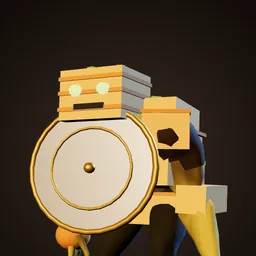
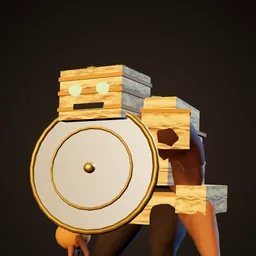
KA A2: painted filo and brass cells in the enemy kit atlas
kit.webp (local FLUX.2 klein): filo side, filo top for up-facing
triangles, brass. KIT_TONE measured from the file (unit test re-measures
it); kitAtlas draws the image into its canvas once loaded. 0 draw calls,
calls unchanged. Kodex E23 and X25 rendered again. enemy-sheet now awaits
kitReady() in sheet mode too (it rendered before the image arrived).

diff --git a/src/render/kit-atlas.ts b/src/render/kit-atlas.ts
@@ -9,13 +9,17 @@ import { BufferAttribute, CanvasTexture, Color, SRGBColorSpace, type BufferGeome
 export const KIT_ATLAS = { cols: 4, rows: 2, cell: 256, pad: 4 } as const;
 
 /**
- * Mean sRGB tone per cell (r, g, b); cell 0 is plain white. Until a painted cell is measured (steps A2, A3) it
- * is a flat 0xb8, and the canvas paints exactly that tone, so colours equal the flat kit colours.
+ * Mean sRGB tone per cell (r, g, b) inside its padding, measured from `kit.webp` (a test measures it again);
+ * cell 0 is plain white, unpainted cells a flat 0xb8. Before the image is in, the canvas paints each cell this
+ * flat tone, so colours equal the plain kit colours from the first frame.
  */
 export const KIT_TONE: ReadonlyArray<readonly [number, number, number]> = [
-  [255, 255, 255], [0xb8, 0xb8, 0xb8], [0xb8, 0xb8, 0xb8], [0xb8, 0xb8, 0xb8],
+  [255, 255, 255], [192, 180, 166], [192, 179, 164], [187, 182, 168],
   [0xb8, 0xb8, 0xb8], [0xb8, 0xb8, 0xb8], [0xb8, 0xb8, 0xb8], [0xb8, 0xb8, 0xb8],
 ];
+
+/** The painted cells (A2: filo side, filo top, brass; local FLUX.2 klein, `docs/local-ai-assets.md` round 5). */
+export const KIT_ART_URL = new URL('../../assets/textures/enemies/kit.webp', import.meta.url).href;
 
 /** A kit material's cell, and optionally a second cell for its up-facing triangles (the camera looks down). */
 export interface KitCell { cell: number; top?: number }
@@ -103,9 +107,16 @@ export function kitAtlas(smallTextures: boolean): Texture {
     g.fillStyle = `rgb(${r},${gr},${b})`;
     g.fillRect((i % cols) * cell * s, Math.floor(i / cols) * cell * s, cell * s, cell * s);
   });
-  atlas = new CanvasTexture(c);
-  atlas.colorSpace = SRGBColorSpace;
-  atlas.anisotropy = 1;
-  ready = Promise.resolve();
-  return atlas;
+  const tex = new CanvasTexture(c);
+  tex.colorSpace = SRGBColorSpace;
+  tex.anisotropy = 1;
+  atlas = tex;
+  // The painted cells replace the flat ones once loaded: one redraw and one re-upload (round 4 pattern).
+  ready = new Promise((done) => {
+    const img = new Image();
+    img.onload = () => { g.drawImage(img, 0, 0, c.width, c.height); tex.needsUpdate = true; done(); };
+    img.onerror = () => done();
+    img.src = KIT_ART_URL;
+  });
+  return tex;
 }

diff --git a/src/render/kit-atlas.test.ts b/src/render/kit-atlas.test.ts
@@ -1,6 +1,7 @@
 import { describe, expect, it } from 'vitest';
 import { BoxGeometry, Color, CylinderGeometry, SRGBColorSpace, type BufferGeometry } from 'three';
-import { cellRect, KIT_CELLS, KIT_TONE, paintPart } from './kit-atlas';
+import sharp from 'sharp';
+import { cellRect, KIT_ATLAS, KIT_CELLS, KIT_TONE, paintPart } from './kit-atlas';
 
 const flat = (g: BufferGeometry): BufferGeometry => g.toNonIndexed();
 /** sRGB channel values (0..255) of vertex `i`'s colour times the linear tone of `cell`. */
@@ -76,6 +77,20 @@ describe('kit atlas (KA part A)', () => {
       const [u0, v0, u1, v1] = cellRect(i);
       expect(u0).toBeGreaterThan(0); expect(v0).toBeGreaterThan(0); expect(u1).toBeLessThan(1); expect(v1).toBeLessThan(1);
       expect(u1).toBeGreaterThan(u0); expect(v1).toBeGreaterThan(v0);
+    }
+  });
+
+  it('KIT_TONE matches the mean of each cell of kit.webp inside its padding (within 2)', async () => {
+    const { data, info } = await sharp('assets/textures/enemies/kit.webp').removeAlpha().raw().toBuffer({ resolveWithObject: true });
+    const { cols, rows, cell, pad } = KIT_ATLAS;
+    expect([info.width, info.height]).toEqual([cols * cell, rows * cell]);
+    for (let i = 0; i < cols * rows; i++) {
+      const x0 = (i % cols) * cell, y0 = Math.floor(i / cols) * cell, sum = [0, 0, 0];
+      let n = 0;
+      for (let y = y0 + pad; y < y0 + cell - pad; y++) for (let x = x0 + pad; x < x0 + cell - pad; x++, n++) {
+        for (let c = 0; c < 3; c++) sum[c]! += data[(y * info.width + x) * 3 + c]!;
+      }
+      sum.forEach((v, c) => expect(Math.abs(v / n - KIT_TONE[i]![c]!)).toBeLessThanOrEqual(2));
     }
   });
 });

diff --git a/tools/enemy-sheet.ts b/tools/enemy-sheet.ts
@@ -201,12 +201,12 @@ const view = q.get('view') ?? 'side';
 renderer.setScissorTest(true);
 const state = (q.get('state') ?? 'chase') as EnemyState;
 const special = q.get('special') as SpecialKind | null;
-// `wait=ms`: build one view first so the gear kit loads its painted maps (T8 fur), then render with them.
-if (q.get('wait')) {
-  new EnemyView(assets, materials, ENEMIES[kinds[0]!].body, false, { own: ownKind(kinds[0]!) }).assign(spawnEnemy(sim, 0, 0, kinds[0]!), false, null);
-  sim.enemies.length = 0;
-  await new Promise((r) => setTimeout(r, Number(q.get('wait'))));
-}
+// Build one view first so the gear kit starts loading its painted maps, then wait for the kit atlas (KA) and,
+// with `wait=ms`, for the timed ones (T8 fur and wool).
+new EnemyView(assets, materials, ENEMIES[kinds[0]!].body, false, { own: ownKind(kinds[0]!) }).assign(spawnEnemy(sim, 0, 0, kinds[0]!), false, null);
+sim.enemies.length = 0;
+if (q.get('wait')) await new Promise((r) => setTimeout(r, Number(q.get('wait'))));
+await kitReady();
 for (let i = 0; i < n; i++) {
   const k = kinds[kind ? 0 : i]!;
   const def = ENEMIES[k];

diff --git a/docs/asset-pipeline.md b/docs/asset-pipeline.md
@@ -93,7 +93,7 @@ T1 is done (PR #14). The T1b paving and leaf images are built, with performance 
 | T9h | Cut glass and mirror panels: lilac-silver faceted glass with bright edges (the Diva's gown, fans and halo, Scherbentänzerin, Logenbrecher), mirror glass with silvering lost in patches and cracks (Orangerie gallery, Schloss mirror arches), dirty conservatory glass (Varieté); chipped and clouded, not new | kit `glass`, `frost`, `smoke`, `mirror` in `src/render/enemies.ts`; `R.fan`, `R.pane`, `R.vault` in the Ku'damm atlas; `railSteel` mirrors | 0.5 m (bodies), 1 m (panes) | `docs/tasks/m16-charlottenburg.md`; panes and the glass vault built 2026-11-25 with T9f (`kudamm.webp`). Dropped: a cut-glass map on the kit `glass`, `smoke`, `frost` (no visible change at game scale) and the Ku'damm fan (FLUX drew flowers and smoke); kit `mirror` open |
 | T9i | Wrought iron: black paint flaking to rust, rust runs, gilded tips worn to brass (fences, gates, the station hall ribs, railings, canopies) | `iron` (`paintMetal`) with `C.iron`, `T.iron`, `IRON` tints; `rust` | 1 m | `docs/tasks/m16-charlottenburg.md`; built 2026-11-22 locally (`assets/textures/charlottenburg/iron.webp`; hardly visible on thin bars) |
 | T9j | Clipped hedge (box and yew) for the maze and the garden: dense small leaves, gaps, dead brown patches, a few overgrown shoots; ragged, not topiary-show clean | `mossy` and `ivy` on `buildHedge` in `charlottenburg-world.ts` | 2 m along the hedge, 2.2 m high | `docs/tasks/m16-charlottenburg.md`; built 2026-11-24 locally (`assets/textures/charlottenburg/hedge.webp` on `mossy`, Charlottenburg only, 0 draw calls), [before and after](proof/t9j-hedge/before-after.jpg) |
-| T10 | Wedding roster (M18 step 2, board `docs/style/wedding.png`): one 1024 × 1024 atlas, four quarters. (1) Filo pastry: flaky golden layers with darker baked edges, honey glaze runs and chopped pistachio (Baklava-Brocken, the Hauptgericht). (2) Carpet weave: ruby field, gold border, emerald medallion, worn pile and frayed edges, tileable along the length (Teppichschlinger, the Sultan's carpet, the Kaftan des Ewigen Gasts as brocade). (3) Brass with tarnish and engraving (samovar, trays, the Sultan's urn cage and crown). (4) Tea glass: red-amber tea with a light caustic (Tee-Ifrit glasses, the Sultan's urn belly; keeps its emissive glow). Worn and used, never shop-new. No religious motifs in the carpet pattern (geometric and floral only) | flat kit colours `filo`, `honey`, `pistachio`, `brass`, `tea`, `urn`, `velvet`, `emerald` in `gearKit` (`src/render/enemies.ts`); vertex colours of `buildRug`; palette `mantel:gast` (`src/data/hero-look.ts`) | 0.5 m (pastry, brass), 1.5 m along the carpet | `docs/tasks/m12e-wedding-enemies.md`; (2) carpet built 2026-11-24 locally as one whole carpet for the Teppichschlinger (`assets/textures/wedding/rug.webp`, shared by all rugs, [before and after](proof/t10-rug/before-after.jpg)); filo, brass and tea glass open |
+| T10 | Wedding roster (M18 step 2, board `docs/style/wedding.png`): one 1024 × 1024 atlas, four quarters. (1) Filo pastry: flaky golden layers with darker baked edges, honey glaze runs and chopped pistachio (Baklava-Brocken, the Hauptgericht). (2) Carpet weave: ruby field, gold border, emerald medallion, worn pile and frayed edges, tileable along the length (Teppichschlinger, the Sultan's carpet, the Kaftan des Ewigen Gasts as brocade). (3) Brass with tarnish and engraving (samovar, trays, the Sultan's urn cage and crown). (4) Tea glass: red-amber tea with a light caustic (Tee-Ifrit glasses, the Sultan's urn belly; keeps its emissive glow). Worn and used, never shop-new. No religious motifs in the carpet pattern (geometric and floral only) | flat kit colours `filo`, `honey`, `pistachio`, `brass`, `tea`, `urn`, `velvet`, `emerald` in `gearKit` (`src/render/enemies.ts`); vertex colours of `buildRug`; palette `mantel:gast` (`src/data/hero-look.ts`) | 0.5 m (pastry, brass), 1.5 m along the carpet | `docs/tasks/m12e-wedding-enemies.md`; (2) carpet built 2026-11-24 locally as one whole carpet for the Teppichschlinger (`assets/textures/wedding/rug.webp`, shared by all rugs, [before and after](proof/t10-rug/before-after.jpg)); (1) filo and (3) brass built 2026-11-25 locally as cells 1 to 3 of the shared enemy kit atlas (`assets/textures/enemies/kit.webp`, `docs/tasks/kit-texture-atlas.md` A2: filo side, filo top for up-facing triangles, brass; on the baked `paint` and `metal` materials, 0 draw calls, [game camera](proof/t10-kit/game-camera.jpg), [brass](proof/t10-kit/brass-close.jpg)); tea glass open (A3) |
 | T13 | Wedding sign atlas (M18, look A): repaint the 22 cells of `CELLS` in the same 2 × 12 grid of 512 × 128 px: „Zum Magendoktor“ red board with white Fraktur, the „Tag u. Nacht“ box sign with a small cartoon figure, the night watchman mural (lantern, coat, hat; the cell is drawn 4× wide and shown square), the sticker-covered pub door, the S Wedding and Gesundbrunnen station plates, the „Der Wedding kommt bald“ banner and „Eröffnung: bald“ boards, Hochzeitspalast and Festsaal in gold on ruby and emerald, the four rest stop signs, the U plates, the Amtsgericht plate, the Beamtentor's blue mosaic AEG monogram and its gold capitals ALLGEMEINE · ELEKTRICITÄTS- · GESELLSCHAFT on red brick, the teal church board. Faded, chipped, grimy, glow kept in the emissive map. No real brand logo except the historic AEG lettering on the gate | `paintSigns` in `src/render/wedding-world.ts` (canvas text) | per card (0.5 to 10 m wide) | `docs/tasks/m18-wedding.md` › Handover step 3; built 2026-11-25 locally: painted boards, mosaic, brick, the watchman mural and the sticker door (`wedding/signs.webp`), the lettering stays code (`paintSignColour`), 0 draw calls, [before and after](proof/t13-signs/before-after.jpg) |
 | T14 | Wedding cloth atlas (M18, E5; not built yet, the cloth is the linen batch tinted): one 1024 × 1024 sheet, four quarters: ruby velvet with a gold fringe (awnings, the palace curtains and valances), a worn ruby carpet with a gold border (runners, the dais, shop carpets), white table linen with wine and tea stains (the Lange Tafel), emerald scaffold netting (nets on tall fronts and the Neubau). Geometric and floral only, no religious motifs. Becomes the second new Wedding material; a chunk then draws it in one call | `linen` with `W.ruby`, `W.rubyDark`, white tints; `burlap` (`tarp`) with `W.emerald` in `wedding-world.ts`, `wedding-sights.ts` | 1 m (cloth), 2 m (net) | `docs/tasks/m18-wedding.md` › Handover step 3; first step built 2026-11-24 locally: a neutral worn cloth map on Wedding's `linen` (`assets/textures/wedding/cloth.webp`, 0 draw calls, [before and after](proof/t14-cloth/before-after.jpg)); the four-quarter atlas (fringe, border, net) still needs atlas UVs in code; atlas built the same day (`assets/textures/wedding/cloth-atlas.webp`, `cloth()` in `wedding-world.ts`: velvet awnings, curtains and valances, carpets, dais and runner, Lange Tafel linen, brocade parcels; [before and after](proof/t14-atlas/before-after.jpg)); the emerald net stays the alpha `tarp` card |
 | P24 | Shared landmark weathering: soot, cracks, moss and graffiti on an alpha atlas | Procedurally painted decal atlas | Sized to each facade | Built, [P24/T5 review and performance open](tasks/p24-t5-landmark-weathering.md) |

diff --git a/assets/LICENSES.md b/assets/LICENSES.md
@@ -40,6 +40,7 @@ Sounds are generated in code (`src/audio`), except the boss voice lines in `voic
 | `textures/xhain/murals.webp` | FLUX.2 klein 4B (Apache 2.0), local ComfyUI (`tools/comfy.mjs --width 1536 --height 384`): eight long original gritty, post-apocalyptic, politically critical wall murals in spray and house paint on concrete (marching column behind barbed wire, surveillance eye, puppet masters with soldiers, burning city with gas masks, stopped clock tower in rubble, chains with a sprout, gas-mask row, crowd turning from a smashed TV); text to image; no copies of real East Side Gallery works (they are copyrighted) | Claude (for Johannes) | own work | T6 follow-up, 2026-11-24 (dark set after Johannes' feedback); 2048 × 1024 atlas of 1024 × 256 cells |
 | `textures/enemies/fur.webp` | FLUX.2 klein 4B (Apache 2.0), local ComfyUI (`tools/comfy.mjs`): matted dirty rat fur with tufts and dried mud; text to image, seed 5, desaturated to neutral grey | Claude (for Johannes) | own work | T8, 2026-11-24; 512 px, finished with `tools/texture-tile.mjs` |
 | `textures/enemies/wool.webp` | FLUX.2 klein 4B (Apache 2.0), local ComfyUI (`tools/comfy.mjs`): worn felted twill wool with pilling, darns and soot; text to image, seed 1, desaturated to neutral grey | Claude (for Johannes) | own work | T8, 2026-11-24; 512 px, finished with `tools/texture-tile.mjs` |
+| `textures/enemies/kit.webp` | FLUX.2 klein 4B (Apache 2.0), local ComfyUI (`tools/comfy.mjs`): cells 1 to 3 of the enemy kit atlas, a filo pastry side cut (seed 2), a baked baklava top (seed 5), worn tarnished brass (seed 8); text to image, cropped, pulled to grey around one tone (`assets-src/ai/ka-a2/compose.mjs`); cell 0 white, cells 4 to 7 flat | Claude (for Johannes) | own work | KA A2 (T10), 2026-11-25; 1024 × 512, cells finished with `tools/texture-tile.mjs` |
 | `textures/wedding/rug.webp` | FLUX.2 klein 4B (Apache 2.0), local ComfyUI (`tools/comfy.mjs`): a whole worn carpet from above, ruby field, gold border, emerald geometric medallion, geometric and floral ornaments only; img2img from the old vertex pattern of `buildRug` at denoise 0.72, seed 4 | Claude (for Johannes) | own work | T10, 2026-11-24; 512 × 1024 WebP |
 | `textures/wedding/cloth-atlas.webp` | FLUX.2 klein 4B (Apache 2.0), local ComfyUI (`tools/comfy.mjs`): four 512 px quarters, ruby velvet with a gold fringe, a worn ruby carpet with a gold border and an emerald medallion, stained white table linen, emerald and gold brocade (geometric and floral only); text to image, velvet and carpet brightened | Claude (for Johannes) | own work | T14, 2026-11-24 |
 | `props/dino-sauropod.glb` | Pixal3D single image (Pixal3D + TRELLIS.2 int8, local ComfyUI, `tools/comfy/run_pixal3d.py --image`) from a FLUX.2 klein 4B (Apache 2.0) picture: old fibreglass brachiosaurus park statue, standing, 12 m; sized, posed (`tools/blender/pose_prop.py`) and baked to 5,000 triangles with a 1024 px texture (`tools/blender/bake_low.py`) | Claude (for Johannes) | own work | P17, 2026-11-24. Pixal3D licence: check before a commercial release (`docs/local-ai-assets.md` › Tools) |

diff --git a/docs/local-ai-assets.md b/docs/local-ai-assets.md
@@ -218,3 +218,9 @@ FLUX cannot letter, so every sign and poster is split: FLUX paints the picture o
 - T9f/T9h Charlottenburg atlases: `charlottenburg/kudamm.webp` (velvet curtain, marble, conservatory panes light and dark, the glass vault) and `citywest.webp` (the four Aquarium terracotta reliefs, the premiere portrait), same coordinates as the atlases. The glow map takes each painted region darkened to the code glow's measured share (curtain 0.09, panes 0.41 and 0.22, vault 0.27, portrait 0.51, marble and reliefs 0). [Ku'damm](proof/t9f-charlottenburg/kudamm-before-after.jpg), [City West](proof/t9f-charlottenburg/citywest-before-after.jpg). The cut-glass fan stays code: FLUX drew flowers, smoke or loose shards, never a fan.
 - Tried and dropped: T11 steel ribs (`turm/ribs.webp` on the tower's rib material, 0 draw calls): at metalness 0.6 in the dark deck the ribs reflect the room and the paint does not show at all. A cut-glass map on the kit's `glass`, `smoke` and `frost` (0 draw calls, they glow and stay out of the paint bake): no visible change on the Diva at game scale, and it would load on every map. Picks and before/after in `assets-src/ai/t11-ribs`, `assets-src/ai/t9h-glass`.
 - GPU queue: ComfyUI is shared with other projects' sessions; a Pixal3D job there holds the GPU 5 to 15 min and FLUX jobs wait behind it (`/queue` shows it).
+
+### Round 5: atlas cells for baked materials (2026-11-25)
+
+- KA A2 enemy kit atlas: `enemies/kit.webp` cells 1 to 3 (filo side, filo top, brass), `docs/tasks/kit-texture-atlas.md`. Text to image, 8 per cell; the picks show the whole object (a pastry stack, a tray), so crop the middle, then `texture-tile.mjs --size 256`. `compose.mjs` pulls each cell to grey around one tone (saturation 0.2, contrast 0.7, highlights above tone + 30 compressed: FLUX's glossy glaze otherwise blows out once the dark pick is brightened). The vertex colour carries the hue. Cell means go into `KIT_TONE`; a unit test measures the file again.
+- Density: a box face gets the whole cell, so the filo side crop holds about 4 layers (a 680 px crop gave 8 and read as wood grain on 0.2 m arm boxes). Filo shows at the game camera; brass only on larger parts (samovar), buttons and crowns unchanged.
+- Check with the tool's ready promise: the first sheets showed no change because `tools/enemy-sheet` rendered before the image was in (fixed: it now awaits `kitReady()` in every mode). Look at a large close-up first to see the map is on at all.

diff --git a/docs/enemy-pipeline.md b/docs/enemy-pipeline.md
@@ -20,6 +20,7 @@ Legend: **female+gear** = `assets/characters/human2.glb` (H3: UBC Superhero_Fema
 
 - Roster: 41 kinds (19 normal or special, 21 bosses, the Spiegelbild) plus the Brigadeghul (walker variant on Alexanderplatz), 4 elite modifiers, 10 NPC types. M16 (2026-11-19, `docs/tasks/m12d-charlottenburg-enemies.md`): three Charlottenburg kinds, four bosses and the reflection, all code gear (placeholder); 1920s dress for Schlurfer, Hetzer, Brocken and Speier on `revue` maps (render only). Kodex: 3D renders E19 to E21, X20 to X23 (2026-11-20); no boss voices yet.
 - M18 Wedding (2026-11-21, `docs/tasks/m12e-wedding-enemies.md`): three kinds, four bosses, all code gear (placeholder); the Zecher dress (stained shirt and a mug) for Schlurfer, Hetzer and Speier, a mug for the Brocken on `fest` maps (render only). Kodex: 3D renders E22 to E24, X24 to X27. Proof `docs/proof/m18-wedding/enemies/`. Draws per body (main pass in `tools/enemy-sheet.mjs`, no shadow): Tee-Ifrit 12 (Speier 6), Baklava-Brocken 15 (Schildträger 19), Teppichschlinger 7 (Krähe 19), Zugezogener 14 and Hauptgericht 15 (Feldwebel 17), Bauherr 17 (Koloss 18), Sultan 25 (Diva 20), a Zecher 7 (Schlurfer 4).
+- KA A2 (2026-11-25, `docs/tasks/kit-texture-atlas.md`): the shared kit atlas `assets/textures/enemies/kit.webp` paints the baked filo (layers on the sides, baked crust on the tops) and brass (tarnish) of every paint-mode body, 0 draw calls. Visible on the Baklava-Brocken and the Hauptgericht (Kodex E23 and X25 rendered again), soft tarnish on the samovar; brass on small parts (buttons, crowns) shows no change at game scale. [Proof](proof/t10-kit/).
 - Bodies: 22 kinds on the zombie rig (2 without own gear: walker, runner), 4 with an own GLB, 7 code-built. None is marked `final`.
 - WP5 fix: zombie-rig gear is now built in the idle pose (`EnemyView.inIdle`); before, it took the pose the pooled view held (often a death pose), so helmets, caps, speakers, torch and lantern sat tilted.
 - WP5 step 3 (H2): coats are fitted to the skinned body at build time (`BodyFit`, `fitCoat` in `src/render/enemies.ts`): ring shells per bone, skirts open at the front and hang (`hangSkirts`). Reuse them for any new coat on the zombie rig.

diff --git a/docs/tasks/pt-hardware-checks.md b/docs/tasks/pt-hardware-checks.md
@@ -14,6 +14,7 @@ Built features nobody has played yet. Delete a row once Johannes has played it; 
 
 | Area | What to try | Task file |
 |---|---|---|
+| Painted filo and brass (KA A2) | Wedding: do the Baklava-Brocken and the Hauptgericht read as flaky pastry (crust on top, layers on the sides) and not as wood? Brass on the samovar and the Sultan still brass? | `docs/tasks/kit-texture-atlas.md` |
 | Local art round 4 (2026-11-25) | Look: Charlottenburg posters on the walls (City West, Ku'damm), the Ku'damm curtain, marble and glass, the Aquarium reliefs; Wedding signs, the Magendoktor mural and door, the Beamtentor lettering. A short hitch when the painted atlases arrive (one re-upload each)? | `docs/local-ai-assets.md` › Round 4 |
 | Boss bodies (H4) | Every humanoid boss now has an own body (`?spawn=` any of them, e.g. `sultan,conferencier,dirigent,bassprediger,spiegelpaar`): the Pixal3D bodies with upright clips. Do they read at the game camera? Tearing at shoulders, knees or long coats and capes in walk, attack, charge and death? The Diva's gown tiers still break at 66 % and 33 %; the Zugezogene's cup sits a little off his hand | `docs/tasks/h3-humanoid-bosses.md` steps 6 and 7 |
 | Local AI round 3 (2026-11-24) | Trabi wrecks (P3, about a third of the cars, pale paint per copy, code wheels): do they read as Trabis and fit next to the code cars, also on the phone (+1 draw call and up to ~30 × 1,900 triangles per map, always drawn)? Longer city bus (P44, 12 m). Boss skin decay (T8) on Grenzer, Spreehexe, Zugezogener up close. Tweed, knit and straw on Schiebermütze, Wollmütze, Strohhut in the inventory | `docs/local-ai-assets.md` › Round 3 |

diff --git a/docs/tasks/kit-texture-atlas.md b/docs/tasks/kit-texture-atlas.md
@@ -1,6 +1,6 @@
 # KA Kit texture atlas and hero coat detail [spec: Claude · Fable high; build: Claude · Opus high]
 
-Status: designed 2026-11-25 (Fable 5.2). A1 built 2026-11-25 (Opus): `src/render/kit-atlas.ts`, flat cells, no visible change (enemy sheets: same `calls=`, differences only where the animation pose moved). Two rendering designs that unblock the last local texture items. Part A and part B touch different files and can be built in parallel sessions; the art steps need the PC (ComfyUI).
+Status: designed 2026-11-25 (Fable 5.2). A1 built 2026-11-25 (Opus): `src/render/kit-atlas.ts`, flat cells, no visible change (enemy sheets: same `calls=`, differences only where the animation pose moved). A2 built 2026-11-25 (Opus): filo and brass cells in `kit.webp`, `KIT_TONE` measured, calls unchanged, Kodex E23 and X25 rendered again ([proof](../proof/t10-kit/)). Two rendering designs that unblock the last local texture items. Part A and part B touch different files and can be built in parallel sessions; the art steps need the PC (ComfyUI).
 
 ## Goal
 
